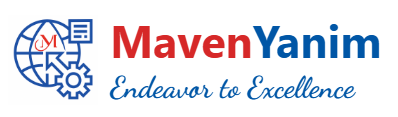
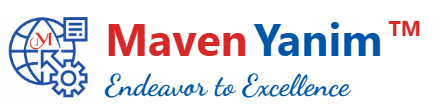
updatd the changes

Changed region(s): [[0.0, 0.1339, 0.9648, 0.8839]]

diff --git a/maveen/src/pages/Services.jsx b/maveen/src/pages/Services.jsx
@@ -223,7 +223,7 @@ Our goal is to empower you with tailored solutions that drive growth and efficie
               </div>
               <div className="flex items-start">
                 <ChevronDoubleRightIcon className="w-29 h-4 md:w-18 md:h-5 text-[#0056A6] mt-1 mr-2" />
-                <p className="text-sm md:text-base">Shop Quality-Process from Diagram, PFMEA, Action plan for reduction in high RPN which results in Control Plan, First Piece Inspection, Check list, Visual Work Instruction, Visual TPM Sheet, Poka-yoke gauges for built in quality in production, Skill / Training Matrix, CDPQ reduction, Corrective &amp; Preventive action, Reports &amp; Capability mapping, Internal Audits.</p>
+                <p className="text-sm md:text-base">Shop Quality-Process from Diagram, PFMEA, Action plan for reduction in high RPN which results in Control Plan, First Piece Inspection, Check list, Visual Work Instruction, Visual TPM Sheet, Poka-yoke gauges for built-in quality in production, Skill / Training Matrix, COPQ reduction, Corrective &amp; Preventive action, Reports &amp; Capability mapping, Internal Audits.</p>
               </div>
               <div className="flex items-start">
                 <ChevronDoubleRightIcon className="w-7 h-4 md:w-5 md:h-5 text-[#0056A6] mt-1 mr-2" />
@@ -318,7 +318,7 @@ Our goal is to empower you with tailored solutions that drive growth and efficie
               </div>
               <div className="flex items-start">
                 <ChevronDoubleRightIcon className="w-4 h-4 md:w-5 md:h-5 text-[#0056A6] mt-1 mr-2" />
-                <p className="text-sm md:text-base">Material Management system and kanban</p>
+                <p className="text-sm md:text-base">Material Management system and Kanban</p>
               </div>
               <div className="absolute bottom-0 left-0 h-1 w-0 bg-[#0056A6] group-hover:w-full transition-all rounded-b-2xl"></div>
             </motion.div>
@@ -405,7 +405,7 @@ Our goal is to empower you with tailored solutions that drive growth and efficie
               </div>
               <div className="flex items-start">
                 <ChevronDoubleRightIcon className="w-18 h-4 md:w-10 md:h-5 text-[#0056A6] mt-1 mr-2" />
-                <p className="text-sm md:text-base">Plant layout using Heijunka and Lean concept such as Value Stream Map, Route Map - Seiryu'ka, reduction in main &amp; material movement, operator utilization (MOP), TAKT time, FIFO, Floor Space utilization, Quality - TPM aspect</p>
+                <p className="text-sm md:text-base">Plant layout using Heijunka and Lean concept such as Value Stream Map, Route Map - Seiryu'ka, reduction in Main &amp; material movement, operator utilization (MOP), TAKT time, FIFO, Floor Space utilization, Quality - TPM aspect</p>
               </div>
               <div className="flex items-start">
                 <ChevronDoubleRightIcon className="w-8 h-4 md:w-5 md:h-5 text-[#0056A6] mt-1 mr-2" />
@@ -467,11 +467,11 @@ Our goal is to empower you with tailored solutions that drive growth and efficie
               className="w-full md:w-[650px] bg-white shadow-md rounded-2xl p-6 md:p-8 text-justify hover:shadow-xl transition relative group mt-6 md:mt-0"
             >
               <ClipboardList className="w-10 h-10 md:w-12 md:h-12 text-[#D62828] mb-4 group-hover:text-red-700 transition-colors" />
-              <h3 className="text-lg md:text-xl font-semibold text-[#0056A6] mb-2">
+              <h3 className="text-xl md:text-xl font-semibold text-[#0056A6] mb-2">
                 Daily work management and Sustenance:
               </h3>
-              <h4 className="text-lg md:text-xl font-semibold text-[#0056A6] mb-2">
-                KPI Tracking and Sustenance
+              <h4 className="text-lg md:text-lg font-semibold text-[#0056A6] mb-2">
+                KRA Tracking and Sustenance
               </h4>
               <div className="flex items-start">
                 <ChevronDoubleRightIcon className="w-4 h-4 md:w-5 md:h-5 text-[#0056A6] mt-1 mr-2" />
@@ -499,7 +499,7 @@ Our goal is to empower you with tailored solutions that drive growth and efficie
               </div>
               <div className="flex items-start">
                 <ChevronDoubleRightIcon className="w-4 h-4 md:w-5 md:h-5 text-[#0056A6] mt-1 mr-2" />
-                <p className="text-sm md:text-base">Build up daily up to date of month Pareto chart</p>
+                <p className="text-sm md:text-base">Build up daily upto date of month Pareto chart</p>
               </div>
               <div className="flex items-start">
                 <ChevronDoubleRightIcon className="w-4 h-4 md:w-5 md:h-5 text-[#0056A6] mt-1 mr-2" />
@@ -519,10 +519,10 @@ Our goal is to empower you with tailored solutions that drive growth and efficie
               className="w-full md:w-[650px] bg-white shadow-md rounded-2xl p-6 md:p-8 text-justify hover:shadow-xl transition relative group mt-6 md:mt-0"
             >
               <DollarSign className="w-10 h-10 md:w-12 md:h-12 text-[#D62828] mb-4 group-hover:text-red-700 transition-colors" />
-              <h3 className="text-lg md:text-xl font-semibold text-[#0056A6] mb-2">
+              <h3 className="text-xl md:text-xl font-semibold text-[#0056A6] mb-2">
                 Cost management:
               </h3>
-              <h4 className="text-lg md:text-xl font-semibold text-[#0056A6] mb-2">
+              <h4 className="text-lg md:text-lg font-semibold text-[#0056A6] mb-2">
                 Data Analytics and Budgeting
               </h4>
               <div className="flex items-start">

diff --git a/maveen/src/pages/About.jsx b/maveen/src/pages/About.jsx
@@ -7,7 +7,7 @@ import {
   faDollarSign,
   faBolt,
 } from "@fortawesome/free-solid-svg-icons";
-import mission from "../assets/mission.jpg"
+import mission from "../assets/mission.png"
 import team from "../assets/team.jpg"
 
 const About = () => {
@@ -127,7 +127,7 @@ const About = () => {
   >
     {/* Left Content */}
     <div className="flex flex-col justify-center">
-      <p className="bg-white text-black p-6 sm:p-8 rounded-lg text-sm sm:text-base md:text-xl font-medium">
+      <p className="bg-white text-gray-700 p-6 sm:p-8 rounded-lg text-sm sm:text-base md:text-lg font-medium">
         To empower organizations to achieve sustainable growth by improving
         efficiency, productivity and quality.
       </p>
@@ -138,7 +138,7 @@ const About = () => {
       <img
         src={mission}
         alt="Our Mission"
-        className="w-full max-w-md rounded-lg border-2 border-gray-300 hover:shadow-md hover:scale-105 transition transform duration-300"
+        className="w-full max-w-md rounded-lg border-2 border-gray-300  hover:scale-105 transition transform duration-300"
       />
     </div>
   </div>
@@ -160,7 +160,7 @@ const About = () => {
       <img
         src={team}
         alt="Team"
-        className="rounded-lg shadow-md border-2 border-gray-300 w-full max-w-md hover:shadow-lg hover:scale-105 transition transform duration-300"
+        className="rounded-lg border-2 border-gray-300 w-full max-w-md  hover:scale-105 transition transform duration-300"
       />
     </div>
 
@@ -187,7 +187,7 @@ const About = () => {
             Operational Excellence (OpEx)
           </h1>
           <p className="p-3 text-xl max-w-3xl">
-            We help businesses implement continuous improvement across all
+            We help businesses to implement continuous improvement across all
             aspects of operations by 
           </p>
           </div>

diff --git a/maveen/src/components/Navbar.jsx b/maveen/src/components/Navbar.jsx
@@ -19,10 +19,12 @@ const Navbar = () => {
           <Link to="/" className="flex items-center gap-2">
             <img src={Logo} alt="Logo" className="w-15 h-15 object-contain" />
             <div className="flex flex-col leading-tight">
-              <span className="text-3xl font-bold">
+              <span className="text-3xl font-bold flex items-center gap-1">
                 <span className="text-[#D62828]">Maven</span>
                 <span className="text-[#0056A6]">Yanim</span>
+                <sup className="text-[#D62828] text-sm font-bold">TM</sup>
               </span>
+
               <span
                 className="text-[#0056A6] font-bold text-xl"
                 style={{ fontFamily: "'Dancing Script', cursive" }}

diff --git a/maveen/src/components/Footer.jsx b/maveen/src/components/Footer.jsx
@@ -22,7 +22,7 @@ export default function Footer() {
         <div>
           {/* <h2 className="flex items-center text-xl text-[#D62828] font-bold"> */}
           
-            <img src={image} alt="" className="w-50 h-15 rounded-sm m-2"  />
+            <img src={image} alt="" className="w-60 h-15 rounded-sm m-2"  />
             {/* Maven  */}
           {/* </h2> */}
 
@@ -33,7 +33,7 @@ export default function Footer() {
            
                        </span> */}
 
-          <p className="mt-4 text-gray-200 leading-relaxed">
+          <p className="mt-4 ms-2 text-gray-200 leading-relaxed">
           Technical and Management Advisory Services, Business Process Improvement
           </p>
         </div>
